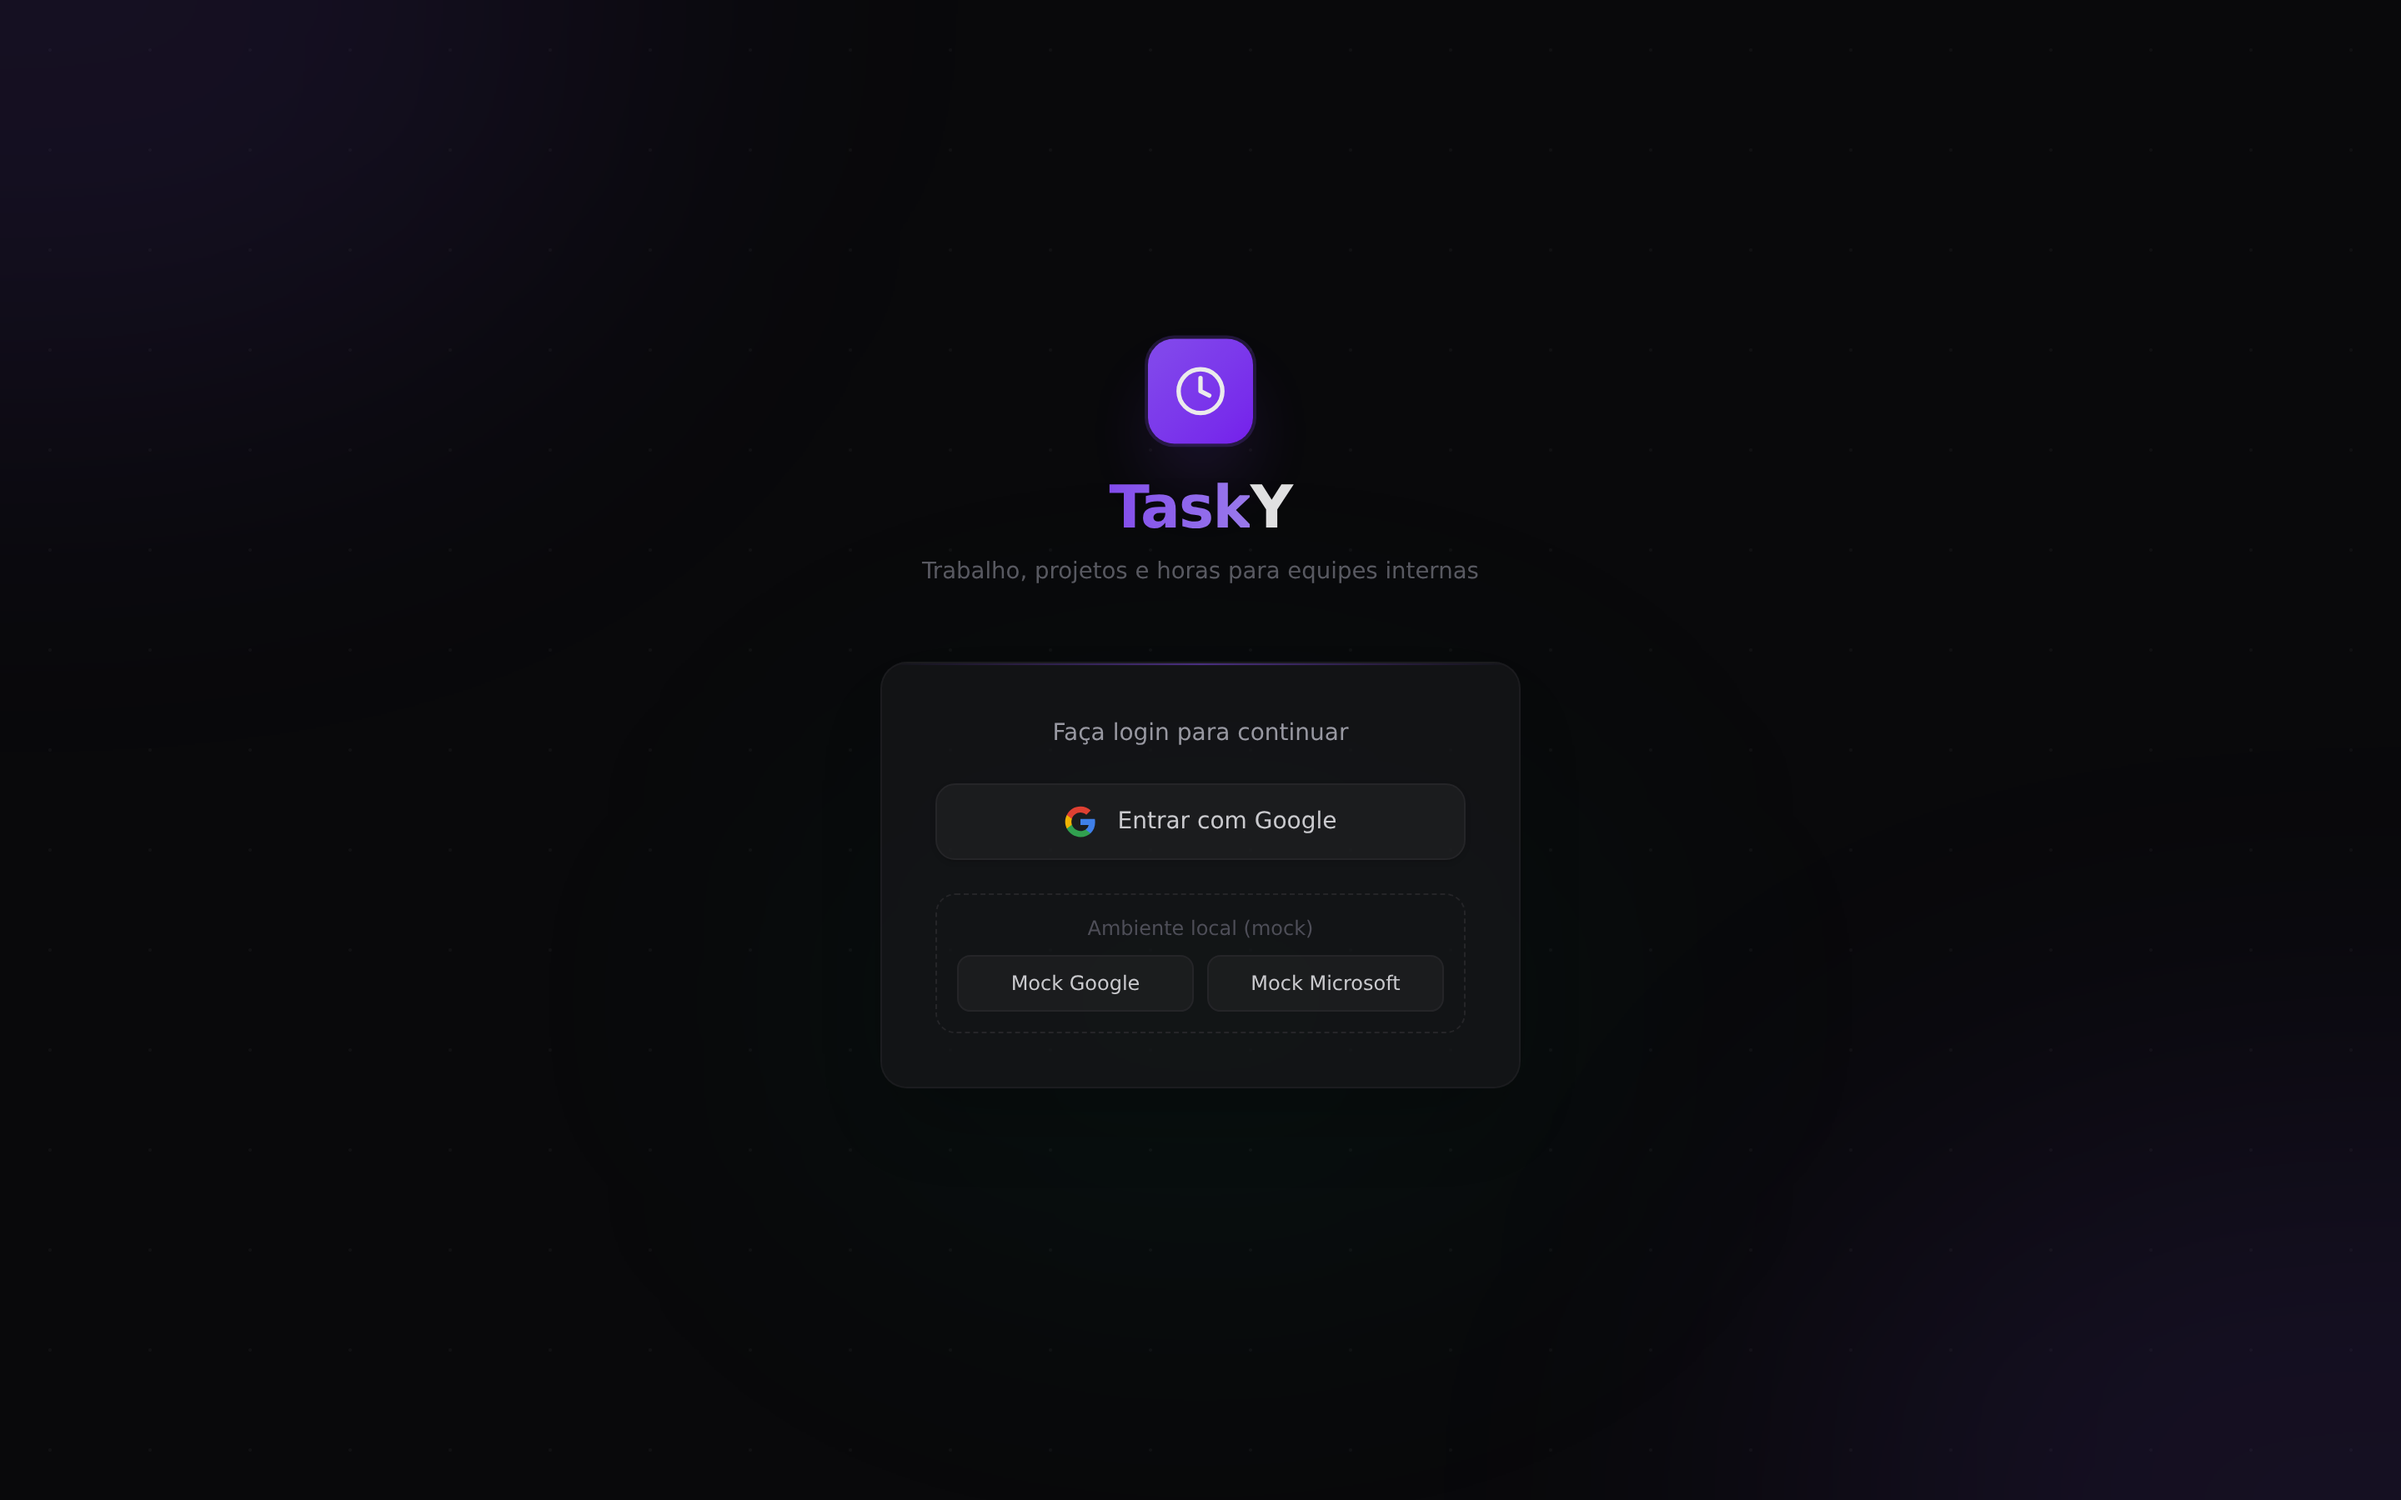
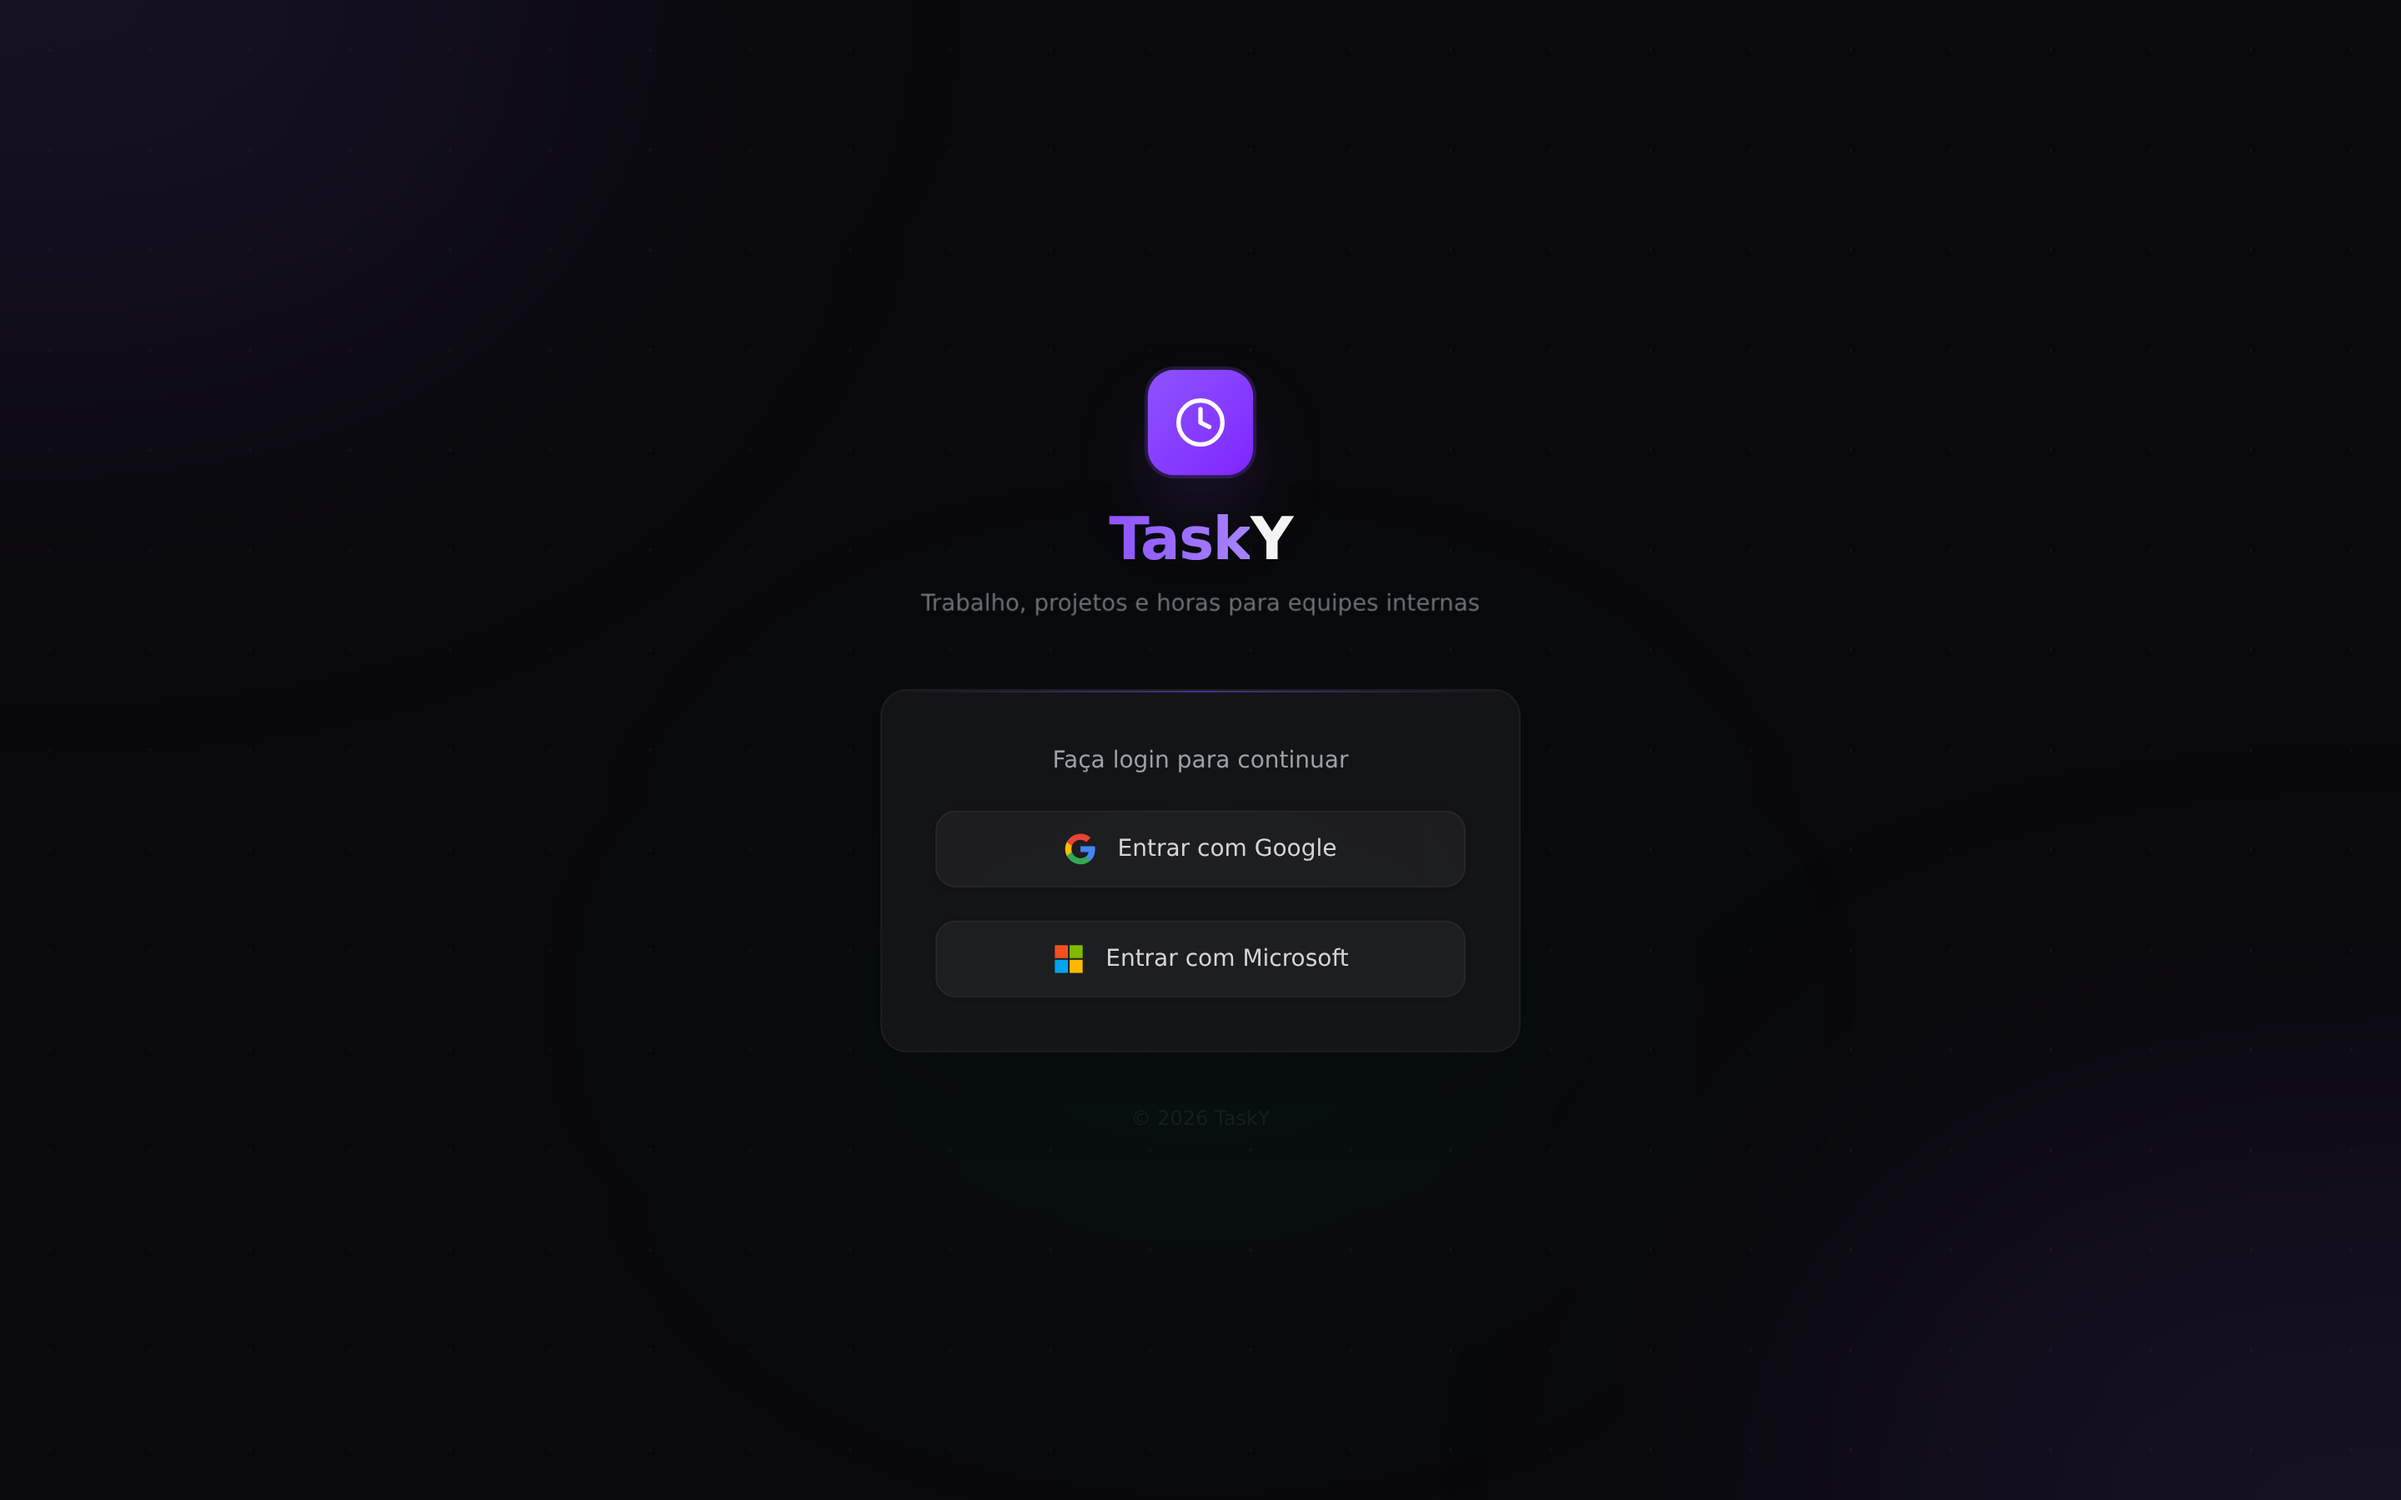
test(docs): capture a clean login shot and real-data screens

Changed region(s): [[0.375, 0.2178, 0.625, 0.4044], [0.4375, 0.4667, 0.5625, 0.5911], [0.4375, 0.6222, 0.5625, 0.6533]]

diff --git a/docs/site/scripts/screenshots.ts b/docs/site/scripts/screenshots.ts
@@ -73,46 +73,98 @@ async function main() {
     // trust it system-wide, or accept the bypass here.
     ignoreHTTPSErrors: true,
   })
-  const page = await context.newPage()
   const shots = selectedShots()
-  const wanted = new Set(shots.map((s) => s.name))
+  // `login` is captured separately (not in SHOTS), so an explicit
+  // TASKY_SHOTS=login must still trigger it; otherwise capture it whenever the
+  // full set runs.
+  const captureLogin =
+    !process.env.TASKY_SHOTS ||
+    process.env.TASKY_SHOTS.split(',')
+      .map((s) => s.trim())
+      .includes('login')
 
-  // Login screen first (public, no session needed).
-  if (wanted.has('login') || !process.env.TASKY_SHOTS) {
-    await page.goto(`${APP}/login`)
-    await page.waitForTimeout(800)
-    await page.screenshot({ path: resolve(OUT, 'login.png') })
+  // Login screen first (public, no session needed). The documentation image
+  // must show the real sign-in options (Google + Microsoft) and not the
+  // local mock panel, so this shot uses its own page with the runtime config
+  // overridden: both client IDs present, mock buttons hidden. The harness
+  // still needs the mock provider to log in, so the authenticated screens use
+  // a separate page without the override.
+  if (captureLogin) {
+    const loginPage = await context.newPage()
+    // The served `runtime-config.js` assigns window.__TASKY_CONFIG__ after any
+    // init script, so the override must replace the response itself. Rewrite
+    // it on the fly: both client IDs present, mock buttons hidden. Only this
+    // page is affected; the authenticated screens keep the real config.
+    await loginPage.route('**/runtime-config.js', async (route) => {
+      const response = await route.fetch()
+      const body = await response.text()
+      const patched = body
+        .replace(
+          /GOOGLE_CLIENT_ID: '[^']*'/,
+          "GOOGLE_CLIENT_ID: 'tasky-docs-google.apps.googleusercontent.com'",
+        )
+        .replace(/MICROSOFT_CLIENT_ID: '[^']*'/, "MICROSOFT_CLIENT_ID: 'tasky-docs-microsoft-client-id'")
+        .replace(/MOCK_OAUTH2_ENABLED: '[^']*'/, "MOCK_OAUTH2_ENABLED: 'false'")
+      await route.fulfill({ response, body: patched })
+    })
+    await loginPage.goto(`${APP}/login`)
+    await loginPage.waitForTimeout(800)
+    await loginPage.screenshot({ path: resolve(OUT, 'login.png') })
+    await loginPage.close()
     console.log('captured login.png')
   }
 
-  await mockLogin(page)
+  if (shots.length > 0) {
+    const page = await context.newPage()
+    await mockLogin(page)
 
-  for (const shot of shots) {
-    await page.goto(`${APP}${shot.path}`)
-    // Wait for the SPA's data queries to settle, then a short paint margin.
-    await page.waitForLoadState('networkidle').catch(() => {})
-    await page.waitForTimeout(shot.wait ?? 1000)
-    // Route guards redirect unauthorized pages; skip instead of capturing a redirect.
-    const landed = new URL(page.url()).pathname
-    if (!landed.startsWith(shot.path.split('?')[0])) {
-      console.warn(`skip ${shot.name}: redirected to ${landed} (role not permitted)`)
-      continue
+    for (const shot of shots) {
+      await page.goto(`${APP}${shot.path}`)
+      // Wait for the SPA's data queries to settle, then a short paint margin.
+      await page.waitForLoadState('networkidle').catch(() => {})
+      await page.waitForTimeout(shot.wait ?? 1000)
+      // Route guards redirect unauthorized pages; skip instead of capturing a redirect.
+      const landed = new URL(page.url()).pathname
+      if (!landed.startsWith(shot.path.split('?')[0])) {
+        console.warn(`skip ${shot.name}: redirected to ${landed} (role not permitted)`)
+        continue
+      }
+      const error = page.getByText(/Algo deu errado|Something went wrong/i)
+      if (await error.count()) {
+        console.warn(`skip ${shot.name}: page error state`)
+        continue
+      }
+      if (shot.name === 'approval-queue') {
+        // The queue sits below the timesheet grid inside a scrollable region;
+        // the document itself does not scroll, so bring the section into view
+        // by scrolling its nearest scrollable ancestor.
+        await page
+          .getByText('Aprovações pendentes')
+          .first()
+          .scrollIntoViewIfNeeded()
+          .catch(() => {})
+        await page.evaluate(() => {
+          const heading = Array.from(document.querySelectorAll('*')).find(
+            (el) => el.textContent?.trim() === 'Aprovações pendentes',
+          )
+          let node: HTMLElement | null = heading as HTMLElement | null
+          while (node) {
+            const style = getComputedStyle(node)
+            const scrollable =
+              (style.overflowY === 'auto' || style.overflowY === 'scroll') &&
+              node.scrollHeight > node.clientHeight
+            if (scrollable) {
+              node.scrollTop = node.scrollHeight
+              break
+            }
+            node = node.parentElement
+          }
+        })
+        await page.waitForTimeout(600)
+      }
+      await page.screenshot({ path: resolve(OUT, `${shot.name}.png`), fullPage: shot.fullPage ?? false })
+      console.log(`captured ${shot.name}.png`)
     }
-    const error = page.getByText(/Algo deu errado|Something went wrong/i)
-    if (await error.count()) {
-      console.warn(`skip ${shot.name}: page error state`)
-      continue
-    }
-    if (shot.name === 'approval-queue') {
-      // Bring the queue into view (it sits below the timesheet grid).
-      await page
-        .getByText('Aprovações pendentes')
-        .scrollIntoViewIfNeeded()
-        .catch(() => {})
-      await page.waitForTimeout(400)
-    }
-    await page.screenshot({ path: resolve(OUT, `${shot.name}.png`), fullPage: shot.fullPage ?? false })
-    console.log(`captured ${shot.name}.png`)
   }
 
   await context.close()
